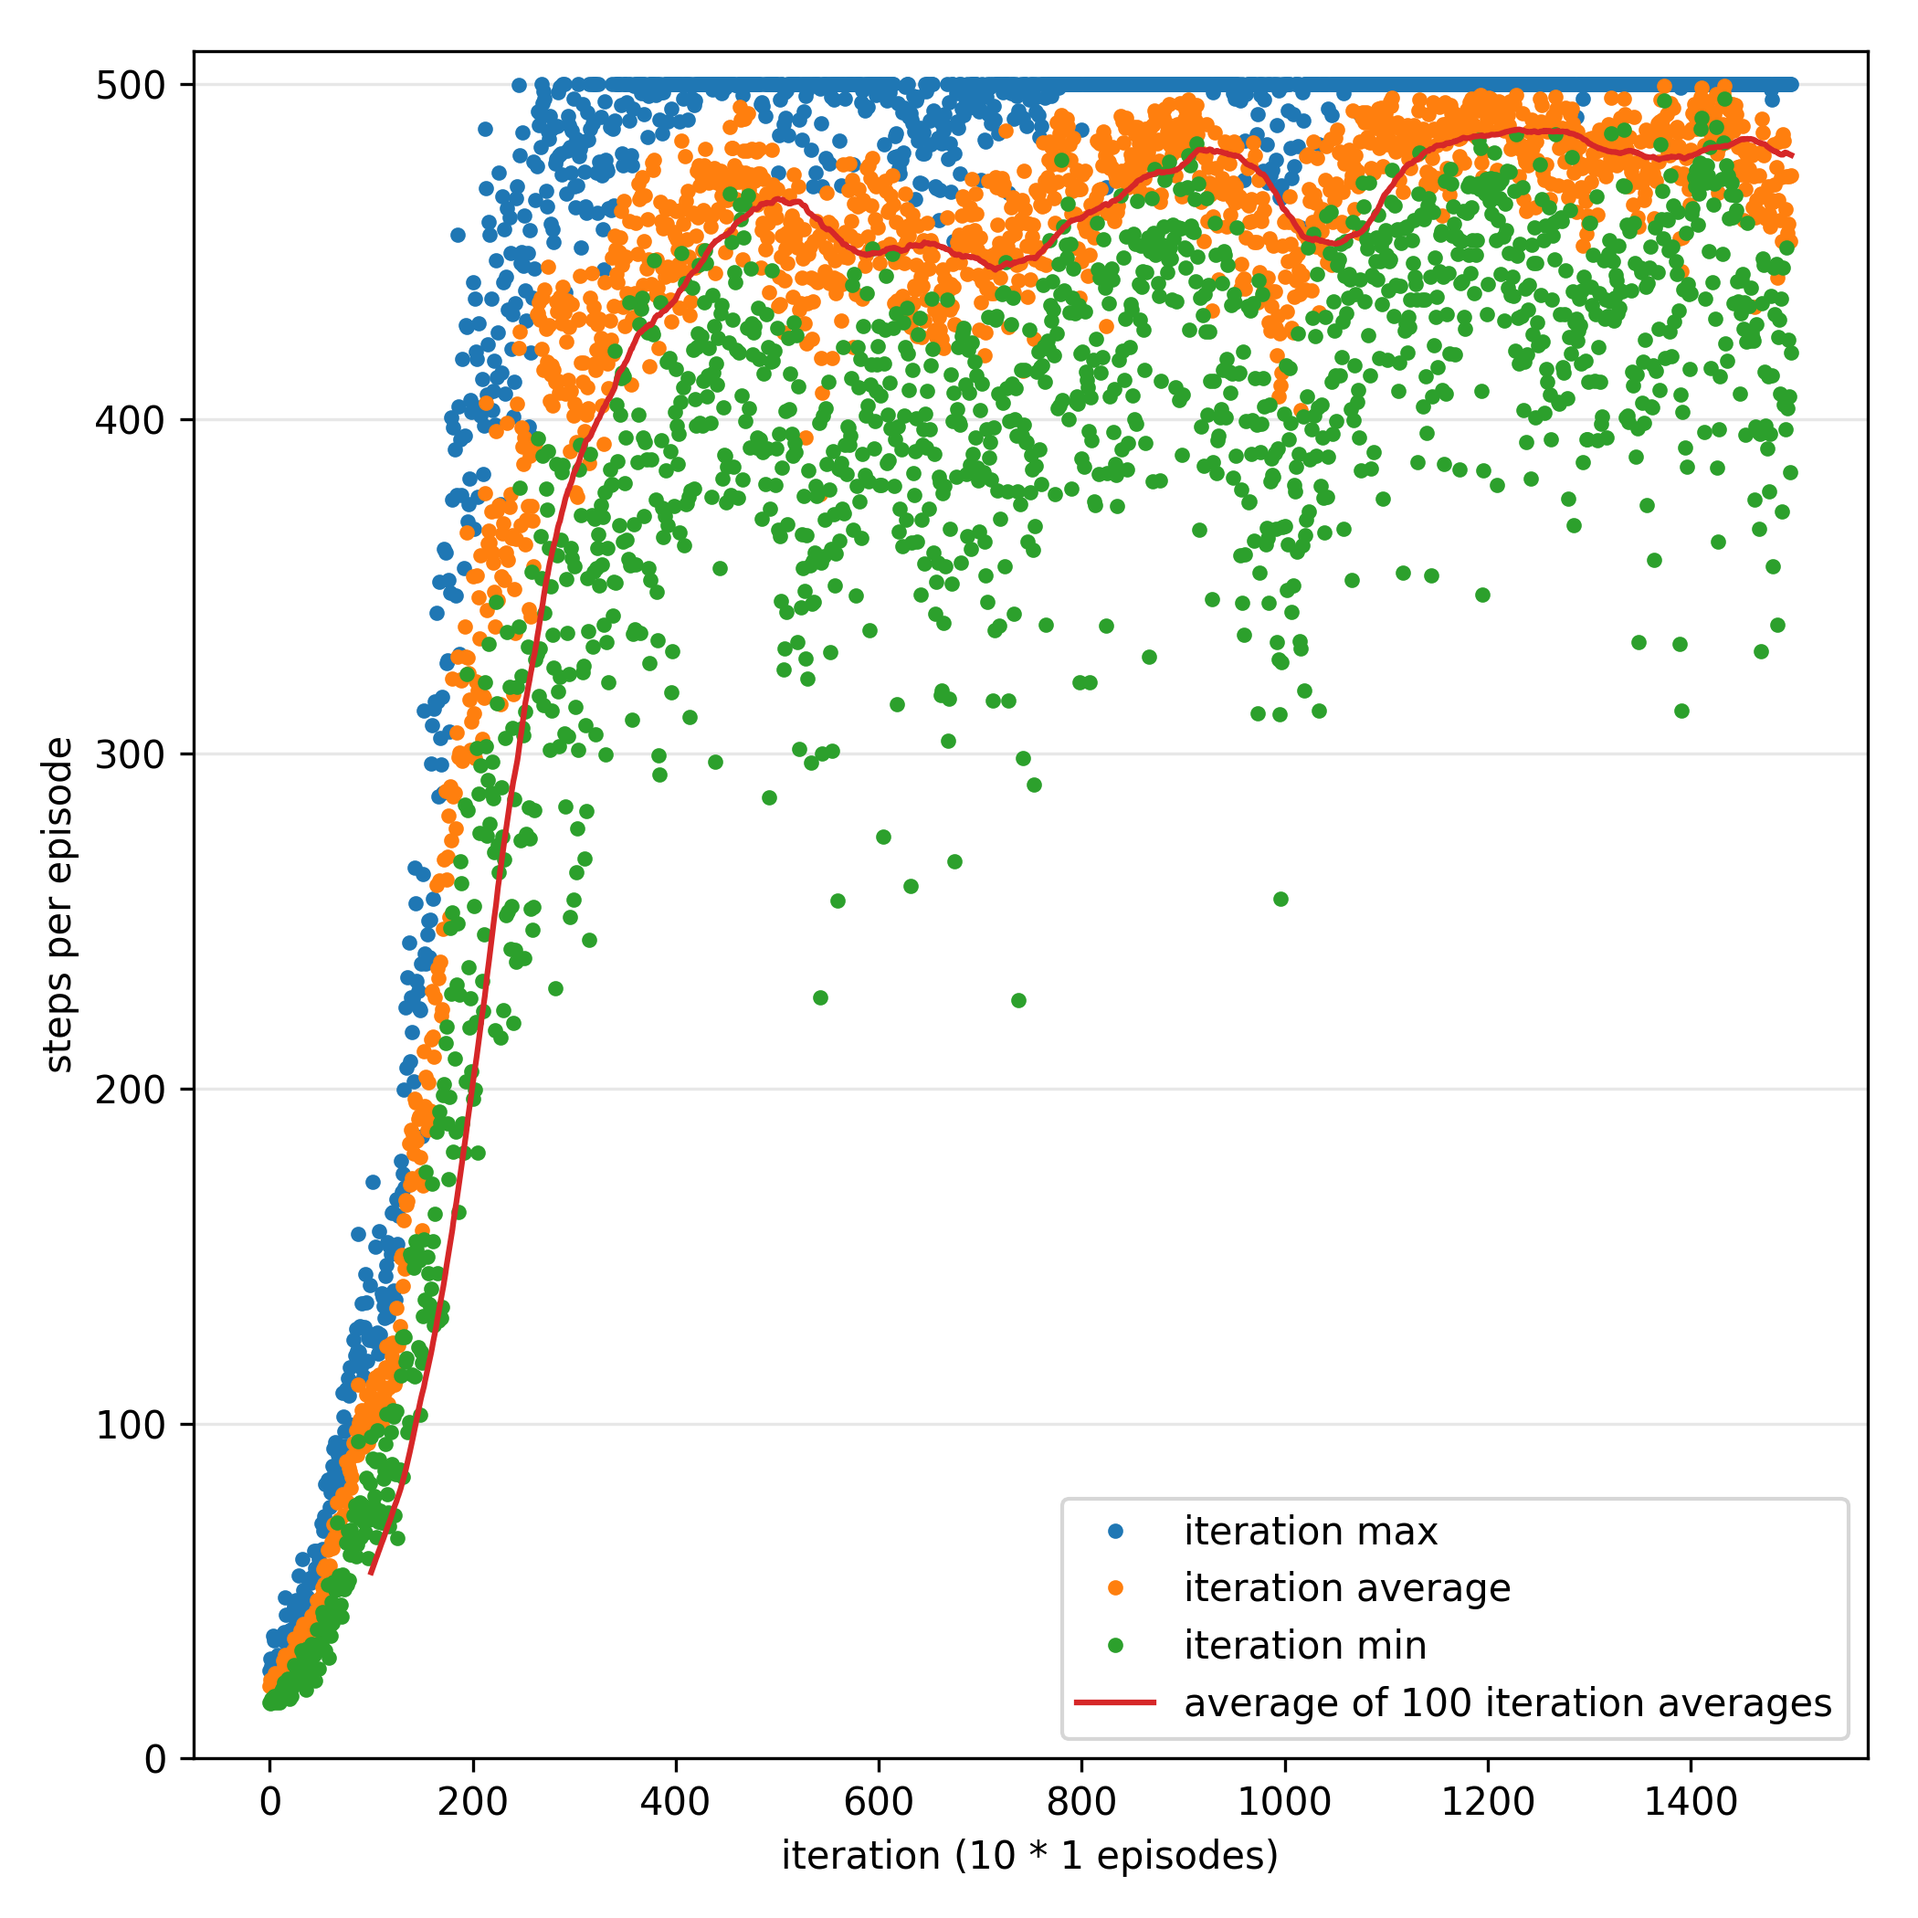
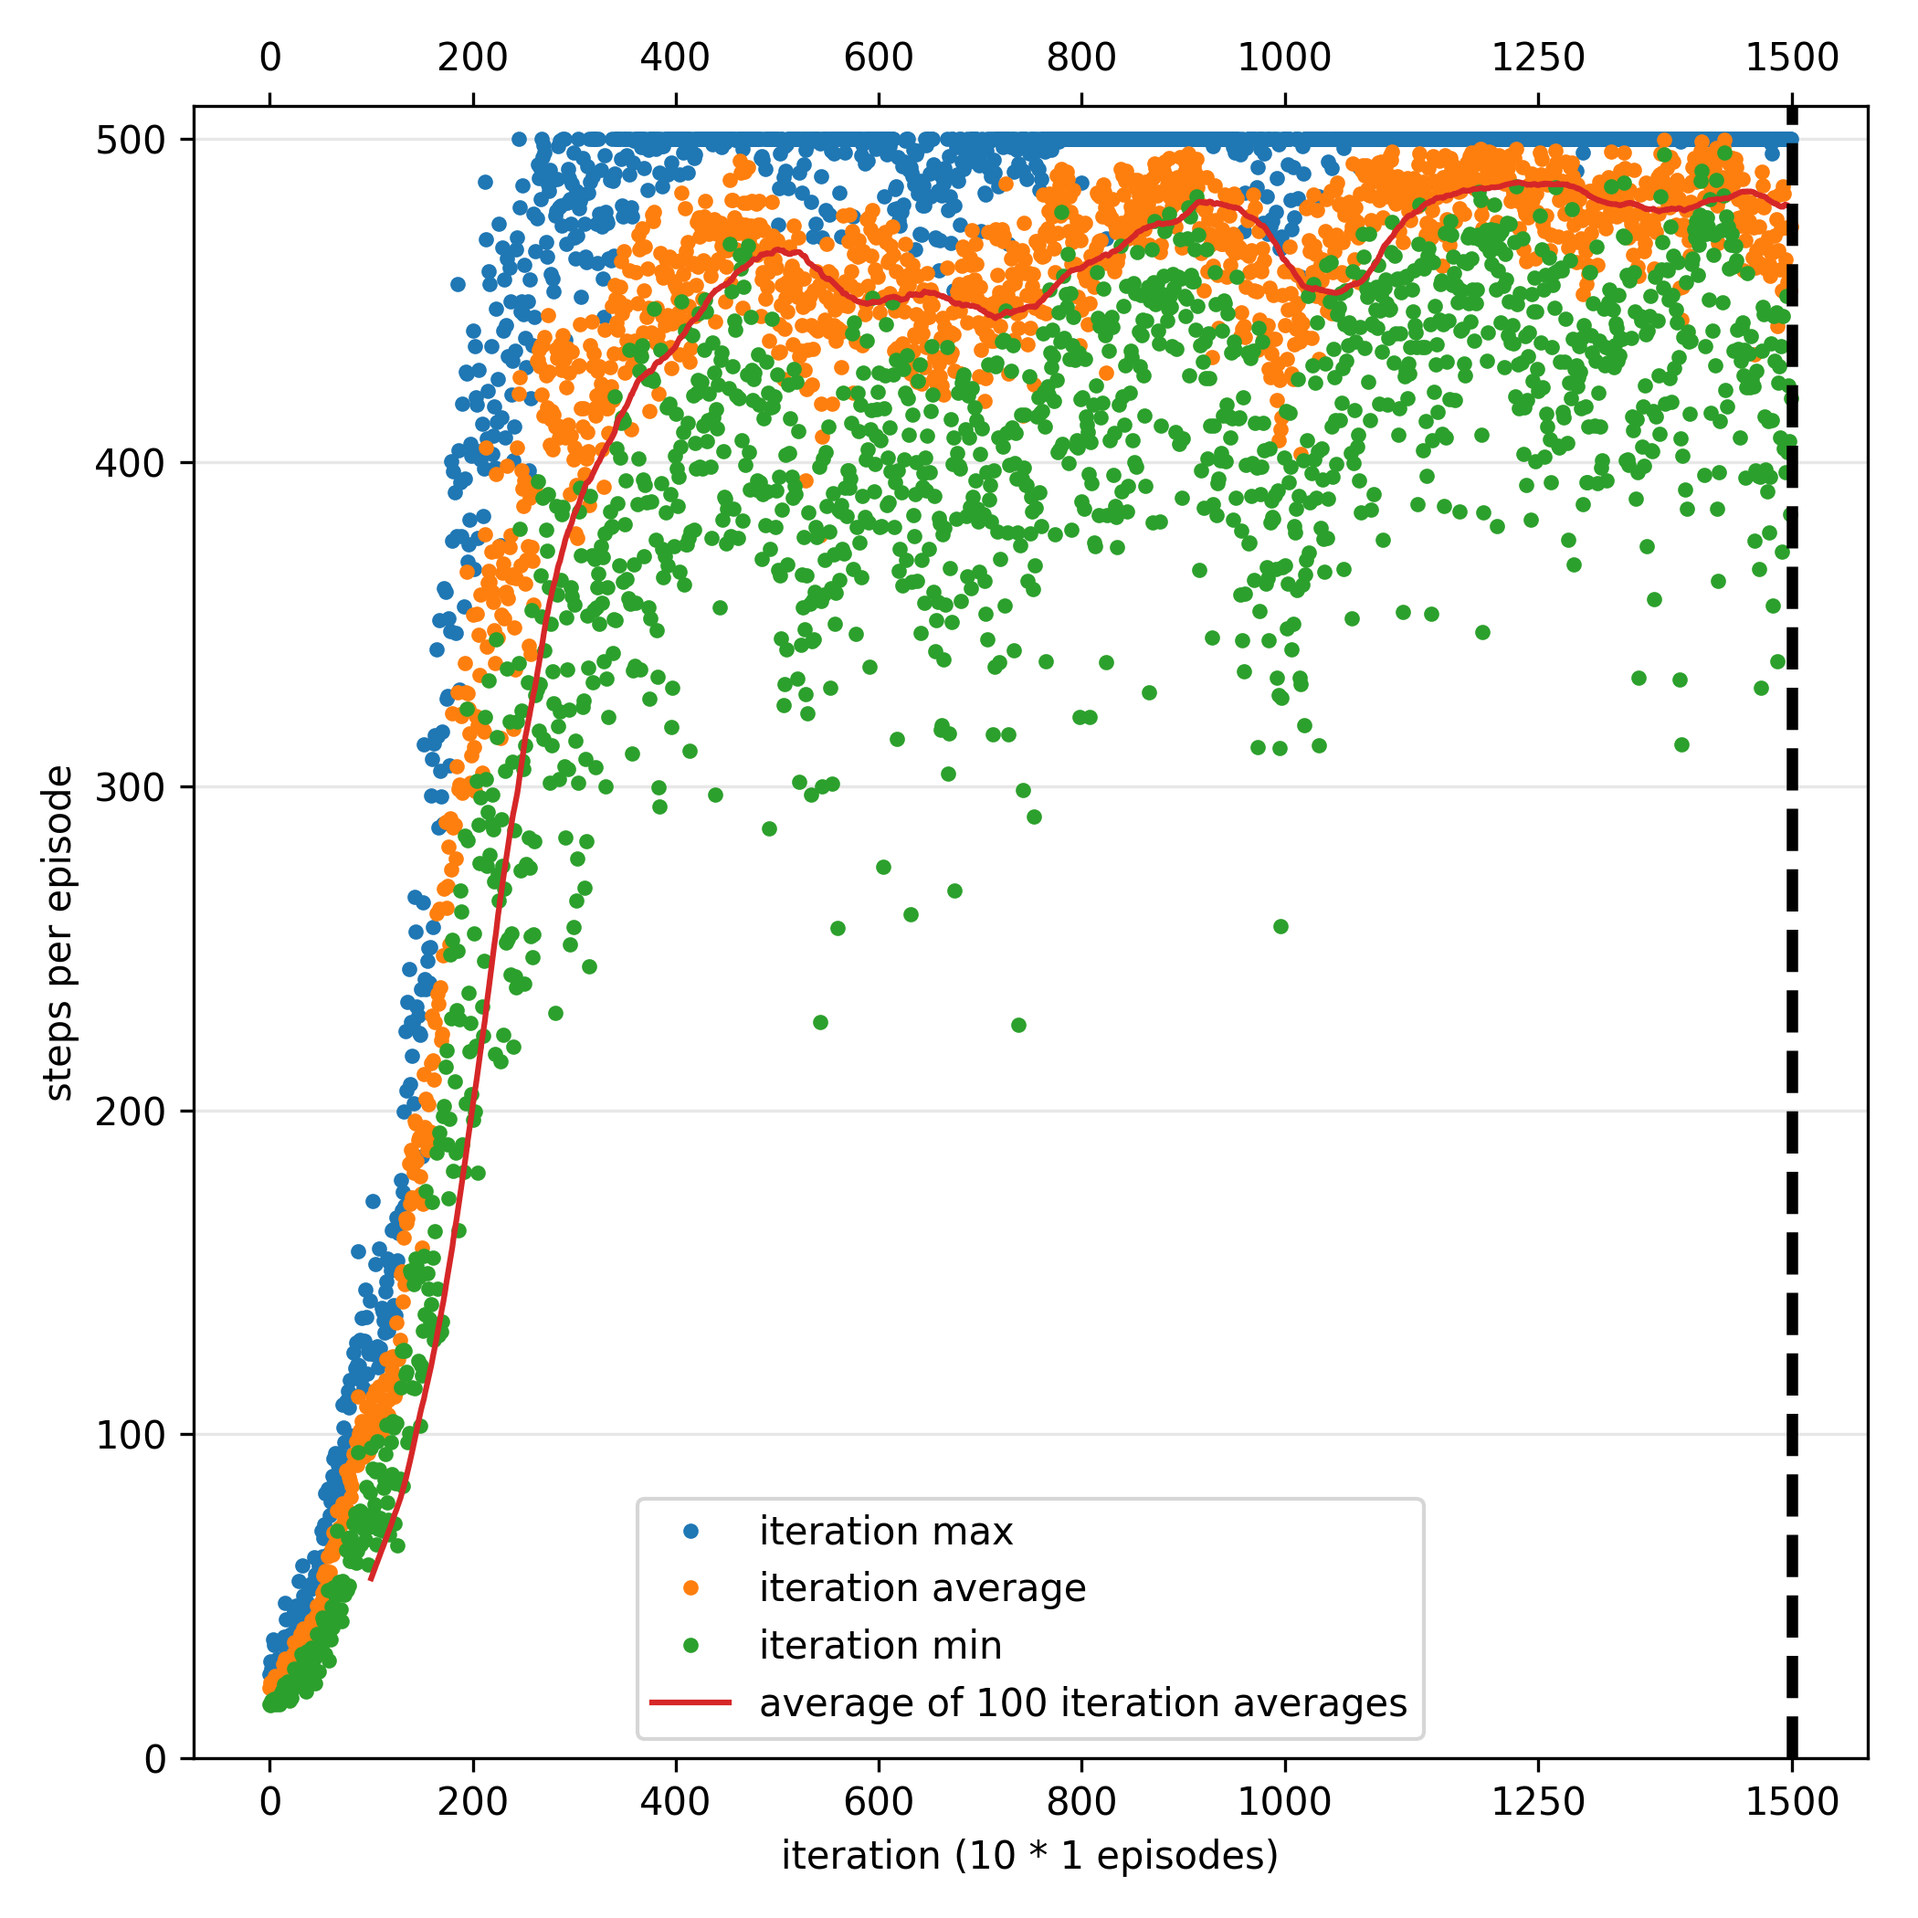
Add figure 4 tooling

diff --git a/neurosim/tools/eval_multimodel.py b/neurosim/tools/eval_multimodel.py
@@ -187,11 +187,25 @@ def spiking_frequencies_table(wdirs, outdir):
       writer.writerow(row)
 
 
-def iters_for_evol(wdir, outdir=None, steps=[100], delimit_wdirs=False):
+def iters_for_evol(wdir, outdir=None, steps=[100], delimit_wdirs=False,
+    show_xlabel=True, extraticks=None, vline=None, rmticks=None):
   if not outdir:
     outdir = wdir
   outputfile = os.path.join(
     outdir, 'iters_during_training.png')
+
+  if extraticks != None:
+    if type(extraticks) == str:
+      extraticks = [float(k) for k in extraticks.split(',')]
+    if type(extraticks) == int or type(extraticks) == float:
+      extraticks = [extraticks]
+    extraticks = list(extraticks)
+  if rmticks != None:
+    if type(rmticks) == str:
+      rmticks = [float(k) for k in rmticks.split(',')]
+    if type(rmticks) == int or type(rmticks) == float:
+      rmticks = [rmticks]
+    rmticks = list(rmticks)
 
   all_wdir_steps, _ = _extract_hpsteps(wdir)
   training_results = []
@@ -225,21 +239,45 @@ def iters_for_evol(wdir, outdir=None, steps=[100], delimit_wdirs=False):
   for step, averages in tr_averages.items():
       plt.plot([t + step for t in range(len(averages))], averages)
 
+  if vline:
+    plt.axvline(x=vline, color='k', linestyle='--', linewidth=3.0)
+
   plt.legend(['iteration max', 'iteration average', 'iteration min'] +
     ['average of {} iteration averages'.format(step) for step in tr_averages.keys()],
     loc='lower right', framealpha=0.95)
-  plt.xlabel('iteration ({} * {} episodes)'.format(pop, beta_iters))
+  if show_xlabel:
+    plt.xlabel('iteration ({} * {} episodes)'.format(pop, beta_iters))
+  if extraticks:
+    ax = plt.gca()
+    lim = ax.get_xlim()
+    ticks = [tick for tick in list(ax.get_xticks()) if not rmticks or tick not in rmticks]
+    ax.set_xticks(ticks + extraticks)
+    ax.set_xlim(lim)
   plt.tight_layout()
 
   plt.savefig(outputfile, dpi=300)
 
 
-def iters_for_evolstdprl(wdir, outdir=None, at_iter='alpha', steps=[100]):
+def iters_for_evolstdprl(wdir, outdir=None, at_iter='alpha', steps=[100],
+    extraticks=None, rmticks=None, vline=None, topticks=False):
   assert at_iter in ['alpha', 'beta', 'gamma']
   if not outdir:
     outdir = wdir
   outputfile = os.path.join(
     outdir, 'iters_during_training_{}.png'.format(at_iter))
+
+  if extraticks != None:
+    if type(extraticks) == str:
+      extraticks = [float(k) for k in extraticks.split(',')]
+    if type(extraticks) == int or type(extraticks) == float:
+      extraticks = [extraticks]
+    extraticks = list(extraticks)
+  if rmticks != None:
+    if type(rmticks) == str:
+      rmticks = [float(k) for k in rmticks.split(',')]
+    if type(rmticks) == int or type(rmticks) == float:
+      rmticks = [rmticks]
+    rmticks = list(rmticks)
 
   all_wdir_steps, _ = _extract_hpsteps(wdir)
   training_results = []
@@ -275,15 +313,31 @@ def iters_for_evolstdprl(wdir, outdir=None, at_iter='alpha', steps=[100]):
   for step, averages in tr_averages.items():
       plt.plot([t + step for t in range(len(averages))], averages)
 
+  if vline:
+    plt.axvline(x=vline, color='k', linestyle='--', linewidth=3.0)
+
   plt.legend(['iteration max', 'iteration average', 'iteration min'] +
     ['average of {} iteration averages'.format(step) for step in tr_averages.keys()])
   plt.xlabel('iteration ({} * {} episodes)'.format(pop, beta_iters))
+  if extraticks:
+    ax = plt.gca()
+    lim = ax.get_xlim()
+    ticks = [tick for tick in list(ax.get_xticks()) if not rmticks or tick not in rmticks]
+    ax.set_xticks(ticks + extraticks)
+    ax.set_xlim(lim)
+  if topticks:
+    ax = plt.gca()
+    ax.tick_params(bottom=True, top=True, left=True, right=False)
+    ax.tick_params(labelbottom=True, labeltop=True, labelleft=True, labelright=False)
+
   plt.tight_layout()
   plt.savefig(outputfile, dpi=300)
 
-def all_iters_for_evolstdprl(wdir):
+def all_iters_for_evolstdprl(wdir,
+    extraticks=None, vline=None, rmticks=None, topticks=False):
   for at_iter in ['alpha', 'beta', 'gamma']:
-    iters_for_evolstdprl(wdir, at_iter=at_iter)
+    iters_for_evolstdprl(wdir, at_iter=at_iter,
+      extraticks=extraticks, vline=vline, rmticks=rmticks, topticks=topticks)
 
 def eval_for_evolstdprl(wdirs, outdir=None, steps=[100]):
   if type(wdirs) == str:
@@ -340,11 +394,6 @@ def eval_for_evolstdprl(wdirs, outdir=None, steps=[100]):
   plt.xlabel('iteration ({} * B episodes)'.format(pop))
   plt.tight_layout()
   plt.savefig(outputfile, dpi=300)
-
-
-def all_iters_for_evolstdprl(wdir):
-  for at_iter in ['alpha', 'beta', 'gamma']:
-    iters_for_evolstdprl(wdir, at_iter=at_iter)
 
 def steps_per_eps(wdir, wdir_name, outdir, merge_es=False, steps=[100],
                   delimit_wdirs=False):

diff --git a/neurosim/log_many_things.md b/neurosim/log_many_things.md
@@ -26,6 +26,24 @@ WDIR=results/20220128-EVOL_b5-badseed/continue_1/continue_1/continue_1/continue_
 WDIR=results/20220129-EVOL_b5-goodseed/continue_1/continue_1/continue_1/continue_1/continue_1/continue_1/continue_1/continue_1
 py neurosim/tools/eval_multimodel.py train-perf-evol $WDIR
 
+# Figure 4
+# A
+WDIR=results/20220124-EVOL_b1-badseed/continue_1/continue_1/continue_1/continue_1/continue_1/continue_1
+py neurosim/tools/eval_multimodel.py train-perf-evol $WDIR \
+    --show_xlabel False --extraticks 1500 --rmticks 1000,2000 --vline 1500
+# B
+WDIR=results/20220123-EVOL_b1-goodseed/continue_1/continue_1/continue_1/continue_1
+py neurosim/tools/eval_multimodel.py train-perf-evol $WDIR \
+    --show_xlabel False --extraticks 1500 --rmticks 1000,2000 --vline 1500
+# C
+WDIR=results/evol-stdp-rl_2022-01-21/STDP_ES_worst_beta1_pop10.small
+py neurosim/tools/eval_multimodel.py train-perf-evolstdprl $WDIR \
+    --vline 1500 --extraticks 1250,1500 --rmticks 1200,1400 --topticks
+# D
+WDIR=results/evol-stdp-rl_2022-01-21/STDP_ES_best_beta1_pop10.small
+py neurosim/tools/eval_multimodel.py train-perf-evolstdprl $WDIR \
+    --vline 1500 --extraticks 1250,1500 --rmticks 1200,1400 --topticks
+
 
 WDIR=results/20220124-EVOL_b1-badseed/continue_1
 WDIR=results/20220124-EVOL_b1-badseed/continue_1/continue_1
@@ -154,6 +172,11 @@ py neurosim/tools/eval_multimodel.py train-perf-evolstdprl $WDIR
 WDIR=results/evol-stdp-rl_2022-01-21/STDP_ES_worst_beta1_pop10.small
 py neurosim/tools/eval_multimodel.py train-perf-evolstdprl $WDIR
 WDIR=results/evol-stdp-rl_2022-01-21/STDP_ES_worst_beta5_pop10.small
+py neurosim/tools/eval_multimodel.py train-perf-evolstdprl $WDIR
+
+WDIR=results/evol-stdp-rl_2022-01-21/STDP_ES_worst_beta10_pop5.small
+py neurosim/tools/eval_multimodel.py train-perf-evolstdprl $WDIR
+WDIR=results/evol-stdp-rl_2022-01-21/STDP_ES_best_beta10_pop5.small
 py neurosim/tools/eval_multimodel.py train-perf-evolstdprl $WDIR
 
 WDIR=results/evol-stdp-rl_2022-01-21
